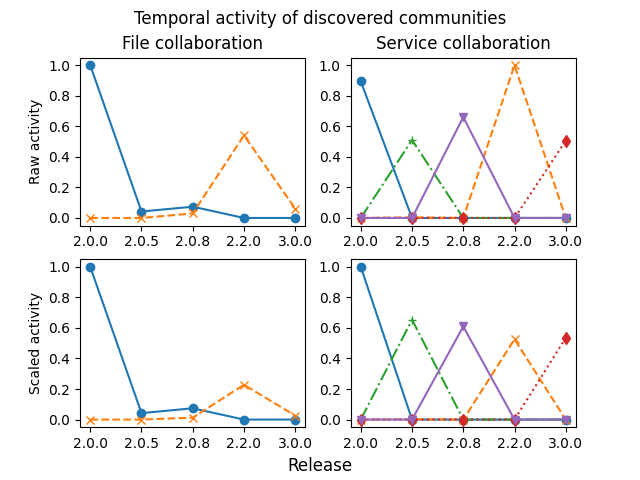
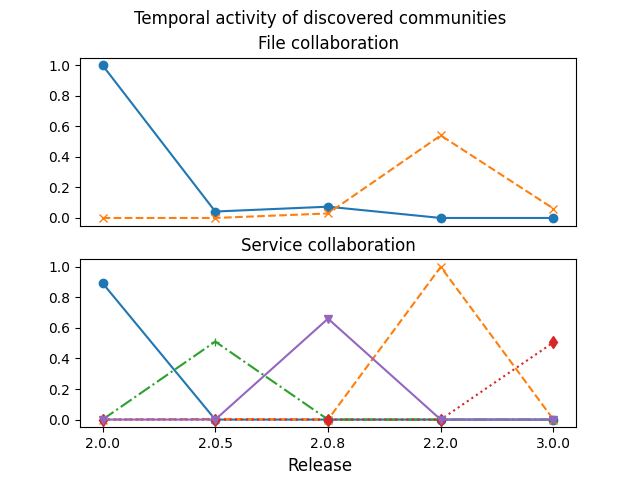
add: only plot raw activities

diff --git a/temporal_activity.py b/temporal_activity.py
@@ -8,27 +8,23 @@ with open('service_communities.pkl', 'rb') as f:
     service_comms = pickle.load(f)
 
 xticks = ['2.0.0', '2.0.5', '2.0.8', '2.2.0', '3.0.0']
-fig, axs = plt.subplots(2, 2)
+fig, axs = plt.subplots(2, 1)
 
 file_raw = file_comms['raw_temporal_activity']
-file_in = file_comms['in_temporal_activity']
 service_raw = service_comms['raw_temporal_activity']
-service_in = service_comms['in_temporal_activity']
-file_in = file_in / np.max(file_in)
 file_raw = file_raw / np.max(file_raw)
-service_in = service_in / np.max(service_in)
 service_raw = service_raw / np.max(service_raw)
-print(service_raw.shape)
 
-plt.subplot(221)
+plt.subplot(211)
 plt.plot(file_raw[:,0], 'o-', label='File comm. 1')
 plt.plot(file_raw[:,1], 'x--', label='File comm. 2')
 plt.title('File collaboration')
-plt.ylabel('Raw activity')
-plt.xticks([0, 1, 2, 3, 4], xticks)
+#plt.xticks([0, 1, 2, 3, 4], xticks)
+ax = plt.gca()
+ax.get_xaxis().set_visible(False)
 #plt.legend()
 
-plt.subplot(222)
+plt.subplot(212)
 plt.plot(service_raw[:,0], 'o-', label='Service comm. 1')
 plt.plot(service_raw[:,1], 'x--', label='Service comm. 2')
 plt.plot(service_raw[:,2], '+-.', label='Service comm. 3')
@@ -37,20 +33,6 @@ plt.plot(service_raw[:,4], 'v-', label='Service comm. 5')
 plt.title('Service collaboration')
 plt.xticks([0, 1, 2, 3, 4], xticks)
 #plt.legend()
-
-plt.subplot(223)
-plt.plot(file_in[:,0], 'o-')
-plt.plot(file_in[:,1], 'x--')
-plt.ylabel('Scaled activity')
-plt.xticks([0, 1, 2, 3, 4], xticks)
-
-plt.subplot(224)
-plt.plot(service_in[:,0], 'o-', label='Service comm. 1')
-plt.plot(service_in[:,1], 'x--', label='Service comm. 2')
-plt.plot(service_in[:,2], '+-.', label='Service comm. 3')
-plt.plot(service_in[:,3], 'd:', label='Service comm. 4')
-plt.plot(service_in[:,4], 'v-', label='Service comm. 5')
-plt.xticks([0, 1, 2, 3, 4], xticks)
 
 fig.supxlabel('Release')
 fig.suptitle("Temporal activity of discovered communities")
